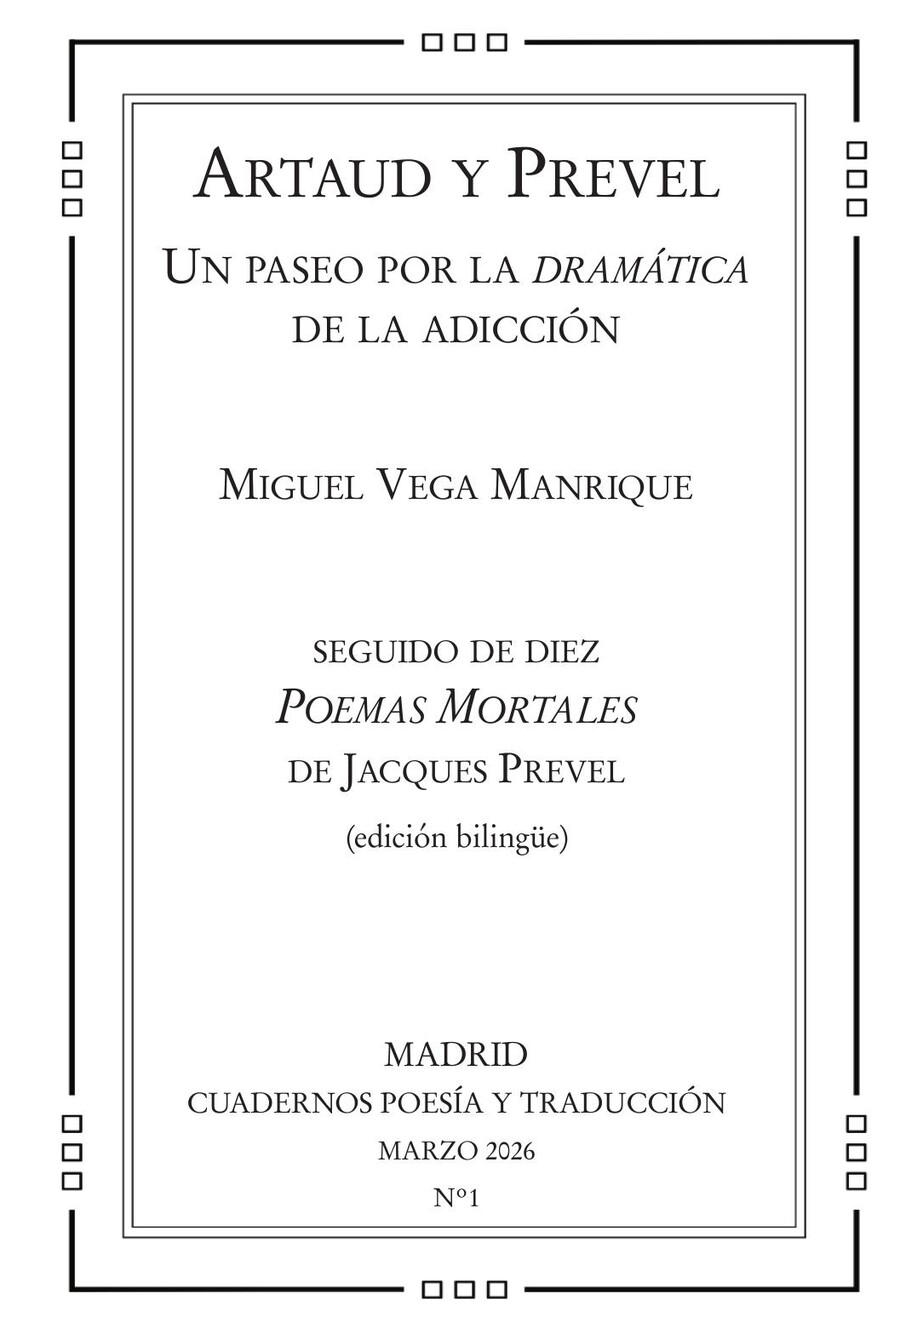
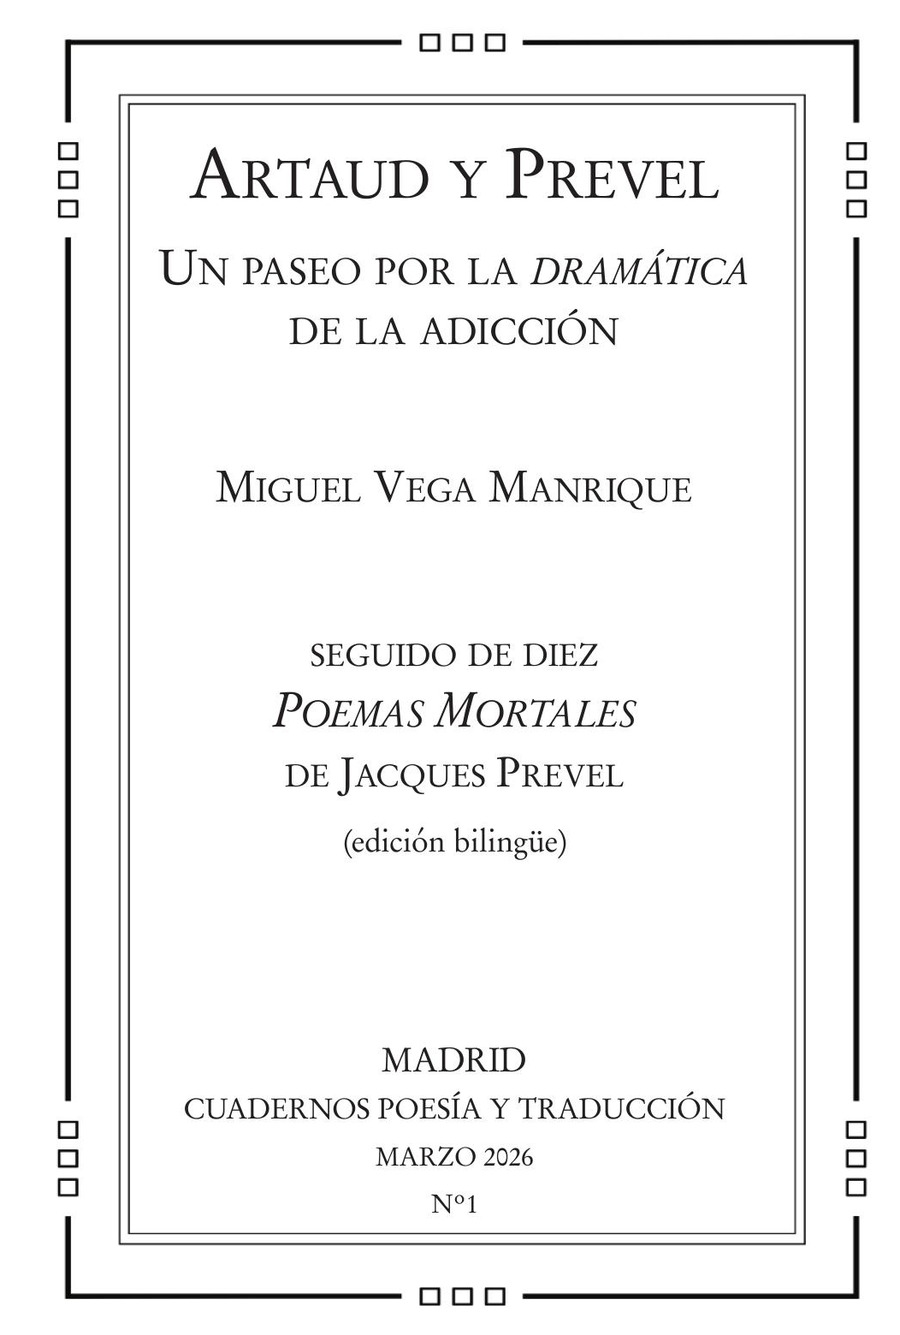
Fix cover crop, remove hint overlay, shadow-only clickability cue
Cover image: re-cropped from x=1062 on the spread (past the gutter),
giving equal ornamental borders on all four sides (900x1335px).

Thumbnail rendering: switched from object-fit:cover to object-fit:contain
so the full cover design (borders, ornaments) is never clipped in any
of the four thumbnail contexts (hero, grid, catalog, detail).

Hover affordance: removed the dark 'Hojear' overlay entirely.
Clickable cover now lifts with a deeper stacked box-shadow on hover
(cubic-bezier spring curve) — no text, no overlay.

Removed the 'Hojear el libro' text button from the detail left column.
The cover itself is the only flipbook entry point.

https://claude.ai/code/session_01SwCPaqDsgcUwYq9vJAe4nX

diff --git a/index.html b/index.html
@@ -138,12 +138,9 @@ nav{position:sticky;top:0;z-index:200;background:var(--page);border-bottom:1px s
 .breadcrumb .sep{margin:0 .6rem;color:var(--ink-faint)}
 .detail-layout{display:grid;grid-template-columns:300px 1fr;border-bottom:1px solid var(--ink)}
 .detail-left{border-right:1px solid var(--ink);padding:3rem 2.5rem;display:flex;flex-direction:column;align-items:center;gap:2rem;position:sticky;top:60px;height:calc(100vh - 60px);overflow-y:auto}
-.detail-cover{width:180px;height:252px;background:#f0ece0;border:.5px solid var(--ink-faint);position:relative;display:flex;align-items:center;justify-content:center;padding:14px;box-shadow:8px 8px 0 #1a191810,16px 16px 0 #1a191808;transition:transform .25s,box-shadow .25s}
+.detail-cover{width:180px;height:252px;background:#f0ece0;border:.5px solid var(--ink-faint);position:relative;display:flex;align-items:center;justify-content:center;padding:14px;box-shadow:8px 8px 0 #1a191810,16px 16px 0 #1a191808;transition:transform .3s cubic-bezier(.22,.68,0,1.2),box-shadow .3s}
 .detail-cover.previewable{cursor:pointer}
-.detail-cover.previewable:hover{transform:translateY(-4px);box-shadow:12px 12px 0 #1a191814,24px 24px 0 #1a19180a}
-.detail-cover.previewable .dc-preview-hint{display:flex}
-.dc-preview-hint{display:none;position:absolute;inset:0;background:rgba(20,18,15,.52);align-items:center;justify-content:center;z-index:10}
-.dc-preview-hint span{font-family:'EB Garamond',serif;font-size:12px;letter-spacing:.18em;text-transform:uppercase;color:#f5f1e8;border:1px solid rgba(245,241,232,.5);padding:6px 14px}
+.detail-cover.previewable:hover{transform:translateY(-6px) rotate(.4deg);box-shadow:16px 22px 0 #1a191816,30px 38px 0 #1a19180a}
 .dc-b1{position:absolute;inset:7px;border:.5px solid #1a191820}
 .dc-b2{position:absolute;inset:11px;border:.5px solid #1a191810}
 .dc-spine{position:absolute;left:-6px;top:3px;bottom:3px;width:6px;background:#d4d0c4;border:.5px solid #2a2a2a18}
@@ -402,9 +399,9 @@ footer{border-top:1px solid var(--ink);padding:1.75rem 2.5rem;display:flex;justi
 }
 
 /* ── REAL COVER IMAGE ── */
-.has-real-img{padding:0!important;overflow:hidden}
+.has-real-img{padding:4px!important}
 .has-real-img .dc-b1,.has-real-img .dc-b2,.has-real-img .book-obj-b1,.has-real-img .book-obj-b2,.has-real-img .grid-cover-b,.has-real-img .cat-cover-b{display:none}
-.has-real-img img{width:100%;height:100%;object-fit:cover;display:block}
+.has-real-img img{width:100%;height:100%;object-fit:contain;display:block}
 
 /* ── FLIPBOOK OVERLAY ── */
 #flipbook-overlay {
@@ -1043,9 +1040,6 @@ function renderDetail(bookId) {
     leftButtons = '<button class="btn-primary" onclick="openPurchaseModal()">Solicitar ejemplar</button>' +
                   '<button class="btn-ghost" onclick="go(\'consulta\')">Consulta &rarr;</button>';
   }
-  if (book.previewPages && book.previewPages.length > 0) {
-    leftButtons += '<button class="btn-ghost" onclick="openBookFlipbook(' + book.id + ')">Hojear el libro &rarr;</button>';
-  }
 
   var copiesHtml = '';
   if (book.status === 'available' && book.copiesRemaining !== null) {
@@ -1078,10 +1072,8 @@ function renderDetail(bookId) {
           var hasPreview = book.previewPages && book.previewPages.length > 0;
           var cls = 'detail-cover' + (book.coverImage ? ' has-real-img' : '') + (hasPreview ? ' previewable' : '');
           var onclick = hasPreview ? ' onclick="openBookFlipbook(' + book.id + ')"' : '';
-          var hint = hasPreview ? '<div class="dc-preview-hint"><span>Hojear</span></div>' : '';
           return '<div class="' + cls + '"' + onclick + '>' +
             '<div class="dc-spine"></div>' +
-            hint +
             (book.coverImage
               ? '<img src="' + book.coverImage + '" alt="' + book.title + '">'
               : '<div class="dc-b1"></div><div class="dc-b2"></div><div class="dc-txt">' + book.coverHtml + '</div>') +
